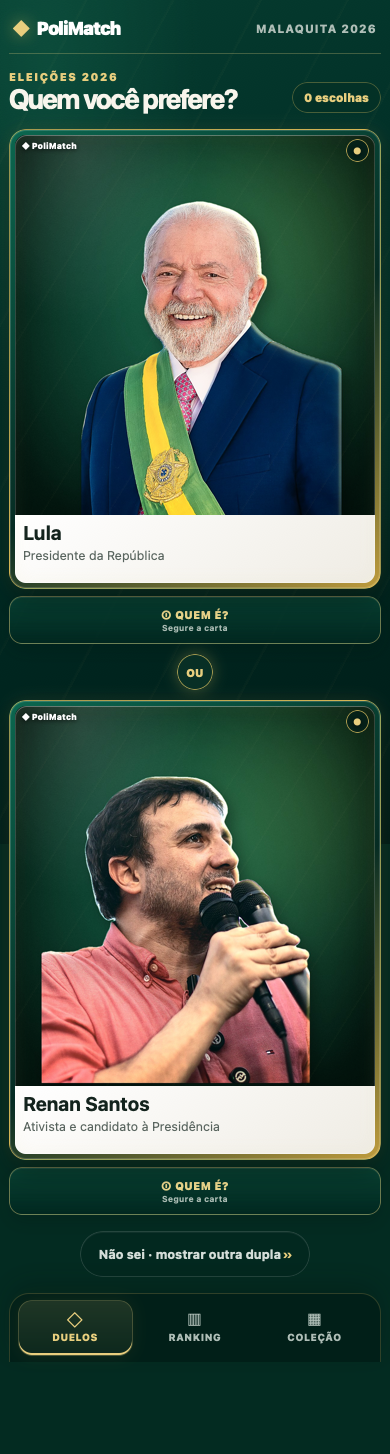
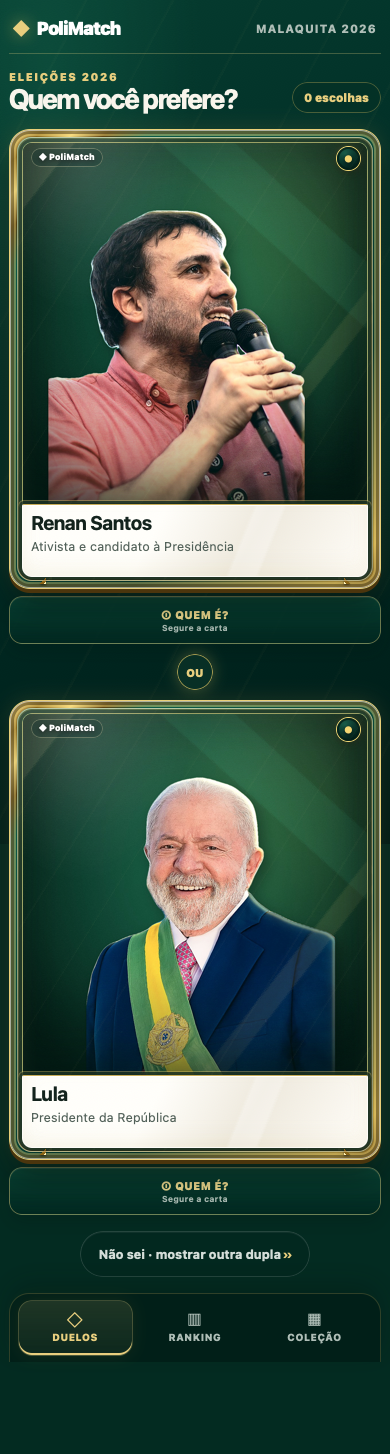
refine premium card construction

diff --git a/app/src/styles.css b/app/src/styles.css
@@ -72,26 +72,34 @@ h1 { margin-bottom: 8px; font-size: clamp(2rem, 8vw, 2.8rem); line-height: 1; le
 .arena { width: min(100%, 860px); margin: 0 auto; display: grid; grid-template-columns: minmax(0, 1fr) 42px minmax(0, 1fr); align-items: center; gap: 12px; }
 .versus { position: relative; z-index: 3; display: grid; place-items: center; width: 42px; height: 42px; border: 1px solid rgb(231 199 98 / 70%); border-radius: 50%; background: #082f25; color: var(--gold); box-shadow: 0 0 18px rgb(231 199 98 / 30%); font-size: .68rem; font-weight: 950; }
 .candidate-wrap { min-width: 0; display: grid; gap: 7px; }
-.candidate-card { position: relative; width: 100%; height: clamp(390px, 43vw, 510px); min-width: 0; display: grid; grid-template-rows: minmax(0, 1fr) 68px; padding: 5px; overflow: hidden; border: 1px solid rgb(231 199 98 / 64%); border-radius: 17px; background: linear-gradient(145deg, #0b674f, #062c23 56%, #bf9c3d); color: var(--ink); text-align: left; cursor: pointer; touch-action: manipulation; user-select: none; -webkit-user-select: none; -webkit-touch-callout: none; box-shadow: inset 0 0 0 1px rgb(255 255 255 / 16%), 0 14px 30px rgb(0 12 9 / 38%), 0 0 18px rgb(231 199 98 / 10%); transition: transform 160ms ease, box-shadow 160ms ease; }
+.candidate-card { position: relative; isolation: isolate; width: 100%; height: clamp(390px, 43vw, 510px); min-width: 0; display: grid; grid-template-rows: minmax(0, 1fr) 72px; padding: 12px 12px 11px; overflow: hidden; border: 1px solid #e9cf78; border-radius: 21px; background: linear-gradient(135deg, #f9e49b 0, #8e691b 4%, #f7dc80 8%, #5e4310 12%, #0b5d49 17%, #04382d 70%, #c9a544 94%, #6e5015 100%); color: var(--ink); text-align: left; cursor: pointer; touch-action: manipulation; user-select: none; -webkit-user-select: none; -webkit-touch-callout: none; box-shadow: inset 0 0 0 1px rgb(255 255 255 / 52%), inset 0 0 0 4px rgb(35 23 2 / 42%), inset 0 0 0 6px rgb(255 227 128 / 42%), 0 4px 0 #4b350d, 0 18px 38px rgb(0 12 9 / 48%), 0 0 24px rgb(231 199 98 / 14%); transition: transform 160ms ease, box-shadow 160ms ease; }
 .candidate-card.is-peeking { z-index: 4; transform: scale(1.035); box-shadow: 0 22px 46px rgb(0 10 7 / 52%), 0 0 28px rgb(231 199 98 / 24%); }
 .candidate-card.is-selected { transform: translateY(-4px) scale(1.015); border-color: #ffe88d; box-shadow: 0 20px 44px rgb(0 10 7 / 52%), 0 0 34px rgb(255 218 92 / 48%); }
 .candidate-card:disabled { cursor: wait; filter: saturate(.7) brightness(.82); transform: scale(.985); }
 .candidate-card.is-selected:disabled { filter: saturate(1.08) brightness(1.02); transform: translateY(-4px) scale(1.015); }
-.candidate-card::before { content: ""; position: absolute; z-index: 4; inset: 5px; pointer-events: none; border-radius: 12px; background: linear-gradient(112deg, transparent 4% 35%, rgb(255 255 255 / 3%) 39%, rgb(255 246 203 / 18%) 44%, rgb(255 255 255 / 4%) 49%, transparent 56% 100%), radial-gradient(ellipse at 18% 4%, rgb(255 255 255 / 18%), transparent 28%), repeating-linear-gradient(122deg, transparent 0 54px, rgb(232 206 126 / 2.8%) 55px 56px); background-position: 135% 0, 0 0, 0 0; background-size: 235% 100%, auto, auto; box-shadow: inset 0 1px rgb(255 255 255 / 24%), inset 0 -1px rgb(255 255 255 / 8%); opacity: .72; mix-blend-mode: screen; transition: background-position 500ms cubic-bezier(.22, 1, .36, 1), opacity 180ms ease; }
+.candidate-card::before { content: ""; position: absolute; z-index: 8; inset: 7px; pointer-events: none; border-radius: 15px; background: linear-gradient(112deg, transparent 4% 31%, rgb(255 255 255 / 3%) 36%, rgb(255 246 203 / 22%) 43%, rgb(255 255 255 / 5%) 49%, transparent 57% 100%), radial-gradient(ellipse at 18% 3%, rgb(255 255 255 / 20%), transparent 26%), repeating-linear-gradient(122deg, transparent 0 58px, rgb(232 206 126 / 3%) 59px 60px); background-position: 138% 0, 0 0, 0 0; background-size: 235% 100%, auto, auto; box-shadow: inset 0 1px rgb(255 255 255 / 28%), inset 0 -1px rgb(255 255 255 / 8%); opacity: .76; mix-blend-mode: screen; transition: background-position 500ms cubic-bezier(.22, 1, .36, 1), opacity 180ms ease; }
 .candidate-card:hover::before, .candidate-card.is-peeking::before { background-position: -20% 0, 0 0, 0 0; opacity: .9; }
 .candidate-card.is-selected::before { animation: varnish-confirm 640ms ease-out; }
-.candidate-card::after { content: ""; position: absolute; z-index: 5; inset: 5px; pointer-events: none; border: 1px solid rgb(255 255 255 / 18%); border-radius: 12px; box-shadow: inset 0 0 18px rgb(232 206 126 / 7%); }
-.card-brand, .card-rarity { position: absolute; z-index: 6; top: 11px; color: white; font-size: .52rem; font-weight: 900; text-shadow: 0 1px 5px rgb(0 0 0 / 70%); }
-.card-brand { left: 12px; }
-.card-rarity { right: 11px; width: 23px; height: 23px; display: grid; place-items: center; top: 9px; border: 1px solid rgb(231 199 98 / 75%); border-radius: 50%; color: var(--gold); background: rgb(2 31 24 / 78%); }
-.portrait { position: relative; min-height: 0; aspect-ratio: 4 / 5; overflow: hidden; display: grid; place-items: center; border-radius: 11px 11px 0 0; background: radial-gradient(circle at 50% 30%, #2f8d70, #063d30 72%); }
+.candidate-card::after { content: ""; position: absolute; z-index: 9; inset: 7px; pointer-events: none; border: 1px solid rgb(255 247 207 / 34%); border-radius: 15px; box-shadow: inset 0 0 0 1px rgb(32 19 0 / 28%), inset 0 0 22px rgb(232 206 126 / 10%); }
+.card-material { position: absolute; z-index: -1; inset: 7px; border-radius: 15px; overflow: hidden; background: radial-gradient(circle at 50% 12%, rgb(41 147 111 / 55%), transparent 36%), linear-gradient(147deg, #126b55, #063b30 48%, #011e19); box-shadow: inset 0 0 0 1px rgb(255 233 153 / 38%), inset 0 -24px 40px rgb(0 16 12 / 42%); }
+.card-material::before { content: ""; position: absolute; inset: 0; opacity: .64; background: linear-gradient(132deg, transparent 0 12%, rgb(239 211 119 / 15%) 12.3% 13%, transparent 13.3% 68%, rgb(239 211 119 / 11%) 68.3% 69%, transparent 69.3%), linear-gradient(42deg, transparent 0 78%, rgb(255 239 176 / 9%) 78.3% 79%, transparent 79.3%), repeating-linear-gradient(118deg, transparent 0 68px, rgb(255 236 166 / 3%) 69px 70px); }
+.card-facets { position: absolute; z-index: 3; inset: 8px; pointer-events: none; border-radius: 14px; background: linear-gradient(135deg, rgb(247 219 124 / 52%) 0 3px, transparent 3px), linear-gradient(225deg, rgb(247 219 124 / 42%) 0 3px, transparent 3px), linear-gradient(45deg, rgb(247 219 124 / 26%) 0 3px, transparent 3px), linear-gradient(315deg, rgb(247 219 124 / 34%) 0 3px, transparent 3px); background-size: 34px 34px; background-position: top left, top right, bottom right, bottom left; background-repeat: no-repeat; }
+.card-corners { position: absolute; z-index: 7; inset: 4px; pointer-events: none; border-radius: 18px; background: linear-gradient(135deg, #fff2b7 0 2px, #8a6415 2px 5px, transparent 5px) top left / 32px 32px no-repeat, linear-gradient(225deg, #fff2b7 0 2px, #8a6415 2px 5px, transparent 5px) top right / 32px 32px no-repeat, linear-gradient(45deg, #fff2b7 0 2px, #8a6415 2px 5px, transparent 5px) bottom right / 32px 32px no-repeat, linear-gradient(315deg, #fff2b7 0 2px, #8a6415 2px 5px, transparent 5px) bottom left / 32px 32px no-repeat; filter: drop-shadow(0 1px 1px rgb(0 0 0 / 50%)); }
+.card-brand, .card-rarity { position: absolute; z-index: 6; top: 18px; color: white; font-size: .53rem; font-weight: 900; text-shadow: 0 1px 5px rgb(0 0 0 / 80%); }
+.card-brand { left: 21px; padding: 3px 7px 4px; border: 1px solid rgb(255 240 182 / 28%); border-radius: 999px; background: rgb(1 31 24 / 44%); backdrop-filter: blur(5px); }
+.card-rarity { right: 19px; width: 25px; height: 25px; display: grid; place-items: center; top: 16px; border: 1px solid #f1d675; border-radius: 50%; color: #f4d773; background: radial-gradient(circle at 35% 28%, #175e4b, #021f19 72%); box-shadow: inset 0 0 0 2px rgb(2 31 24 / 85%), 0 2px 8px rgb(0 0 0 / 42%), 0 0 8px rgb(238 207 107 / 18%); }
+.portrait { position: relative; min-height: 0; aspect-ratio: 4 / 5; overflow: hidden; display: grid; place-items: center; border-radius: 10px 10px 2px 2px; background: radial-gradient(circle at 50% 30%, #2f8d70, #063d30 72%); }
 .candidate-card .portrait { aspect-ratio: auto; }
-.candidate-card .portrait::after { content: ""; position: absolute; z-index: 2; inset: 0; pointer-events: none; background: radial-gradient(ellipse at 50% 48%, transparent 28%, rgb(2 55 41 / 7%) 50%, rgb(1 36 28 / 42%) 100%), linear-gradient(145deg, rgb(239 211 119 / 13%), transparent 27% 68%, rgb(0 25 19 / 24%)), repeating-linear-gradient(126deg, transparent 0 76px, rgb(232 206 126 / 3%) 77px 78px); box-shadow: inset 0 0 44px rgb(0 34 26 / 34%), inset 0 -22px 36px rgb(0 30 23 / 18%); mix-blend-mode: soft-light; }
+.candidate-card .portrait { border: 1px solid rgb(255 228 134 / 58%); box-shadow: 0 0 0 3px rgb(1 29 23 / 72%), 0 0 0 4px rgb(239 209 111 / 35%), inset 0 0 24px rgb(0 22 17 / 42%), 0 8px 18px rgb(0 13 10 / 38%); }
+.candidate-card .portrait::before { content: ""; position: absolute; z-index: 2; inset: 0; pointer-events: none; background: linear-gradient(128deg, rgb(255 231 151 / 15%) 0 8%, transparent 8.5% 73%, rgb(255 218 111 / 10%) 73.5% 77%, transparent 77.5%), linear-gradient(42deg, transparent 0 72%, rgb(47 170 130 / 11%) 72.5% 82%, transparent 82.5%); mix-blend-mode: screen; }
+.candidate-card .portrait::after { content: ""; position: absolute; z-index: 3; inset: 0; pointer-events: none; background: radial-gradient(ellipse at 50% 42%, transparent 34%, rgb(1 34 27 / 12%) 63%, rgb(0 20 15 / 52%) 100%), linear-gradient(180deg, rgb(255 241 190 / 7%), transparent 30% 72%, rgb(0 20 15 / 25%)); box-shadow: inset 0 0 42px rgb(0 25 19 / 28%), inset 0 -24px 36px rgb(0 24 18 / 22%); }
 .portrait img { position: absolute; inset: 0; z-index: 1; width: 100%; height: 100%; display: block; object-fit: cover; object-position: center top; }
 .portrait-fallback { position: absolute; inset: 0; display: grid; place-items: center; font-size: clamp(2rem, 10vw, 4rem); font-weight: 950; color: rgb(255 255 255 / 50%); }
-.candidate-copy { position: relative; z-index: 1; display: block; min-height: 0; padding: 9px 10px; border-radius: 0 0 11px 11px; background: linear-gradient(145deg, #fff, #efece4); }
-.candidate-copy strong { display: block; font-size: clamp(.85rem, 3.5vw, 1.08rem); line-height: 1.05; }
-.candidate-copy span { display: block; margin-top: 5px; color: #58645e; font-size: .69rem; line-height: 1.3; }
+.candidate-copy { position: relative; z-index: 4; display: block; min-height: 0; margin-top: -1px; padding: 11px 12px 9px; border: 1px solid rgb(255 255 255 / 78%); border-top-color: #c9ad59; border-radius: 2px 2px 10px 10px; background: linear-gradient(118deg, #fffefa 0 38%, #eee9dd 65%, #fffdf8 100%); box-shadow: 0 0 0 3px rgb(1 29 23 / 72%), 0 0 0 4px rgb(239 209 111 / 35%), inset 0 1px white, inset 0 -10px 22px rgb(182 160 99 / 8%), 0 6px 15px rgb(0 13 10 / 30%); }
+.candidate-copy::after { content: ""; position: absolute; inset: 0; pointer-events: none; border-radius: inherit; background: linear-gradient(112deg, transparent 0 62%, rgb(255 255 255 / 55%) 63% 70%, transparent 71%); opacity: .55; }
+.candidate-copy strong, .candidate-copy span { position: relative; z-index: 1; }
+.candidate-copy strong { display: block; font-size: clamp(.9rem, 3.5vw, 1.12rem); line-height: 1.04; letter-spacing: -.025em; }
+.candidate-copy span { display: block; margin-top: 6px; color: #526159; font-size: .68rem; line-height: 1.25; letter-spacing: .015em; }
 @keyframes varnish-confirm { 0% { background-position: 150% 0, 0 0, 0 0; opacity: .68; } 46% { opacity: 1; } 100% { background-position: -30% 0, 0 0, 0 0; opacity: .78; } }
 .profile-button { min-height: 48px; padding: 7px 8px; border: 1px solid rgb(232 206 126 / 46%); border-radius: 13px; background: linear-gradient(180deg, rgb(8 72 56 / 78%), rgb(1 39 31 / 88%)); color: #f6df91; box-shadow: inset 0 1px rgb(255 255 255 / 9%), 0 8px 18px rgb(0 17 13 / 18%); font-size: .68rem; font-weight: 900; letter-spacing: .04em; text-transform: uppercase; cursor: pointer; }
 .profile-button:hover { border-color: rgb(249 228 152 / 72%); box-shadow: inset 0 1px rgb(255 255 255 / 12%), 0 8px 22px rgb(0 17 13 / 24%), 0 0 14px rgb(212 175 55 / 10%); }

diff --git a/app/src/main.js b/app/src/main.js
@@ -69,6 +69,8 @@ function portrait(candidate) {
 function card(candidate) {
   return `<div class="candidate-wrap">
     <button class="candidate-card${state.selectedId === candidate.id ? " is-selected" : ""}" type="button" data-vote="${escapeHtml(candidate.id)}" ${state.busy ? 'disabled aria-busy="true"' : ""} aria-label="${escapeHtml(candidate.name)}, carta padrão. Toque para escolher; segure para saber quem é.">
+      <span class="card-material" aria-hidden="true"></span>
+      <span class="card-facets" aria-hidden="true"></span>
       <span class="card-brand" aria-hidden="true">◆ PoliMatch</span>
       <span class="card-rarity" aria-hidden="true">●</span>
       ${portrait(candidate)}
@@ -76,6 +78,7 @@ function card(candidate) {
         <strong>${escapeHtml(candidate.displayName || shortName(candidate.name))}</strong>
         <span>${escapeHtml(candidateRole(candidate))}</span>
       </span>
+      <span class="card-corners" aria-hidden="true"></span>
     </button>
     <button class="profile-button" type="button" data-profile="${escapeHtml(candidate.id)}"><span aria-hidden="true">ⓘ</span> Quem é? <small>Segure a carta</small></button>
   </div>`;

diff --git a/stages/10_rebuild_eleicoes_2026/output/HANDOFF.md b/stages/10_rebuild_eleicoes_2026/output/HANDOFF.md
@@ -2,7 +2,7 @@
 
 ## Status
 
-Estado: versão de teste aprovada para publicação
+Estado: revisão visual em andamento
 
 ## Entregue
 
@@ -38,6 +38,7 @@ Estado: versão de teste aprovada para publicação
 - Somente 82 retratos sem qualquer flag foram integrados à prévia; 43 permanecem em fallback para impedir publicação acidental de pessoa errada, baixa qualidade ou licença pendente.
 - O duelo móvel foi reorganizado em duas cartas grandes empilhadas; em desktop, as duas cartas permanecem grandes e lado a lado.
 - Cada carta recebeu uma camada atmosférica entre retrato e moldura, integrando as bordas à malaquita, e uma última camada de verniz que cobre foto, placa e estrutura com reflexo controlado.
+- Após o feedback de que a primeira composição ainda parecia uma foto com borda, a carta básica foi reconstruída como um objeto em camadas: aro metálico externo, trilhos internos, cantos facetados, retrato rebaixado, placa de nome encaixada e verniz superficial. O tratamento continua deliberadamente abaixo das Chromas em intensidade.
 - Capturas de QA em WebKit foram preservadas em `mobile-stacked-photo-qa.png` e `desktop-photo-qa.png`.
 - O primeiro preview de dez retratos em caricatura editorial foi registrado como direção operacional, aguardando os arquivos individuais.
 - O primeiro acesso ao duelo agora apresenta uma explicação curta e descontraída; depois de concluída, ela não reaparece no mesmo navegador.
@@ -59,4 +60,4 @@ Estado: versão de teste aprovada para publicação
 
 ## Human gate
 
-Status: aprovado pelo usuário em 14/09/2026 ao solicitar push e deploy desta versão de teste.
+Status: nova revisão visual solicitada pelo usuário em 14/09/2026; aguarda aprovação da anatomia premium atualizada antes de publicar.
